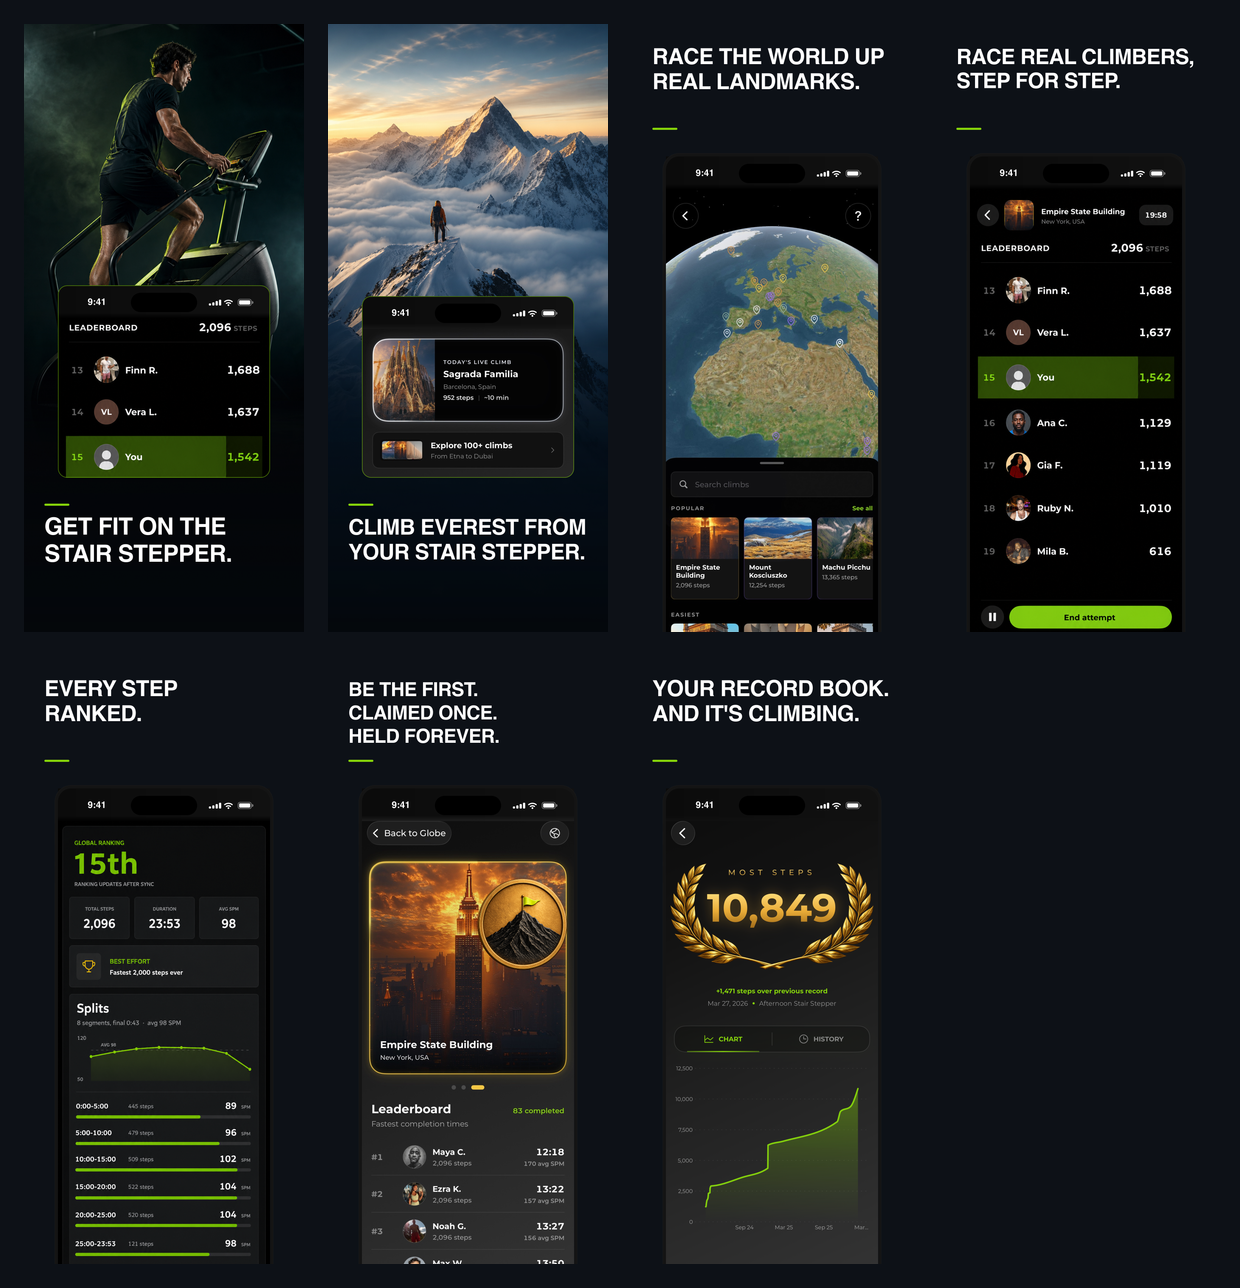
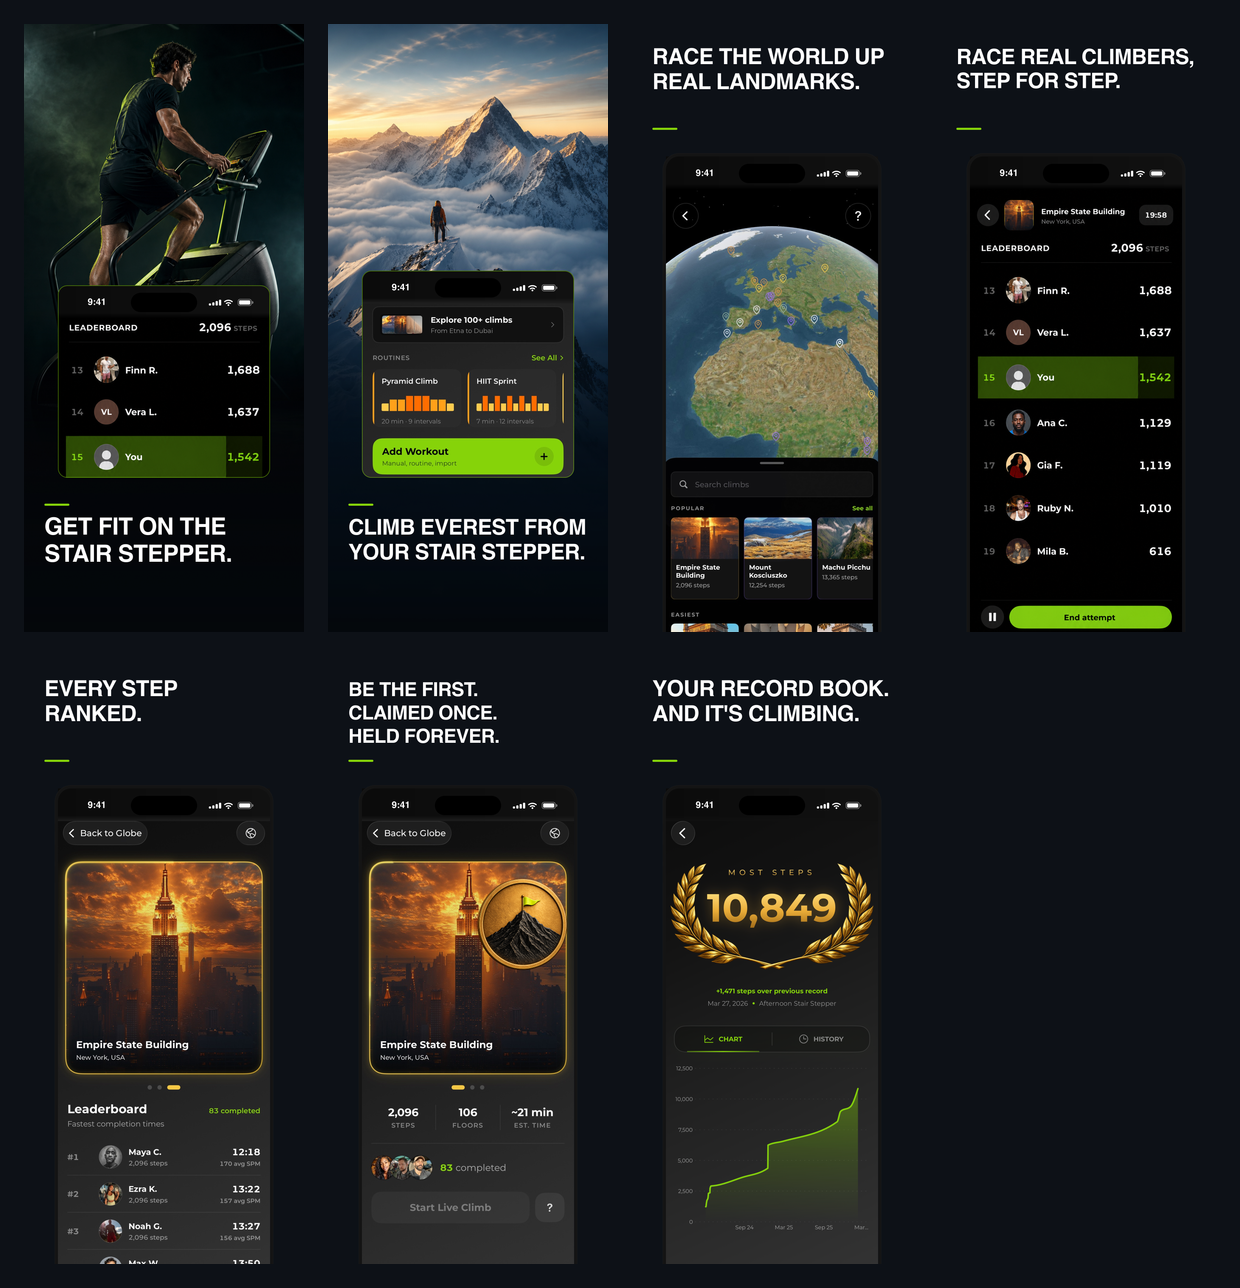
no-mistakes(review): restore brief-specified captures, fix screen 02 inset framing

diff --git a/data/ascend-support-page-and-product-page-package/screenshot-sources/README.md b/data/ascend-support-page-and-product-page-package/screenshot-sources/README.md
@@ -9,13 +9,16 @@ All app imagery, including the insets on the transformation screens, is real Asc
 - Screen 02 inset, home: `web/public/images/ascend-home-live-climb.jpg`
 - Screen 03, browse: `web/public/images/ascend-globe-browse.jpg`
 - Screen 04, live race: `web/public/images/ascend-live-climb-leaderboard-preview.png`
-- Screen 05, climb results: `web/public/images/ascend-live-climb-results.png`
-- Screen 06, First Ascent: `web/public/images/ascend-climb-leaderboard.jpg` with the real `FirstAscentBadgeDetailed` app asset
+- Screen 05, per-climb leaderboard: `web/public/images/ascend-climb-leaderboard.jpg`
+- Screen 06, First Ascent: `web/public/images/ascend-climb-detail.jpg` with the real `FirstAscentBadgeDetailed` app asset
 - Screen 07, Best Efforts: `web/public/images/ascend-best-effort-detail.png`
 
-No screen uses `web/public/images/ascend-climb-detail.jpg`.
-It is the one capture whose Start Live Climb button is in its disabled state, and a storefront screenshot must not feature an inactive primary action.
-The renderer still reads that file's status bar for the device-point measurements behind `statusBarSvg`.
+This mapping follows the approved brief in `docs/app-store-screenshots-brief.md`.
+
+Two captures are deliberately unused:
+
+- `ascend-live-climb-results.png` shows a split table that contradicts itself - a `25:00-23:53` interval that runs backwards and starts past the workout's own 23:53 duration, six rows under an "8 segments" header, and per-split steps summing to 2,596 against a stated 2,096 total. That is an app bug, not a capture problem; the screen cannot ship on a store listing that sells accurate measurement until the split calculation is fixed and it is re-captured.
+- `ascend-live-climb-share.png` leads with "GLOBAL RANK 15th", which fights every headline in the set.
 
 `device-frame.png` is the frame supplied by the `aso-appstore-screenshots` skill.
 
